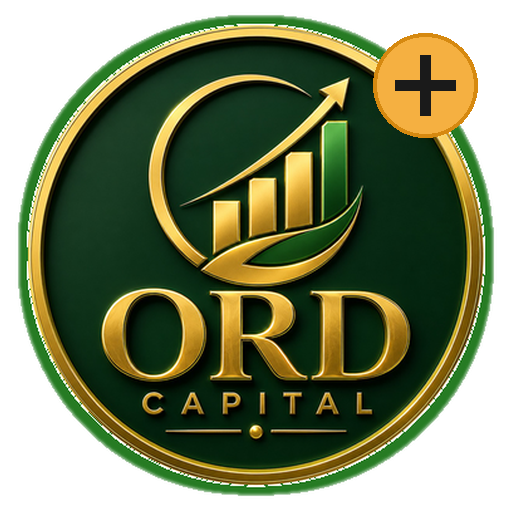
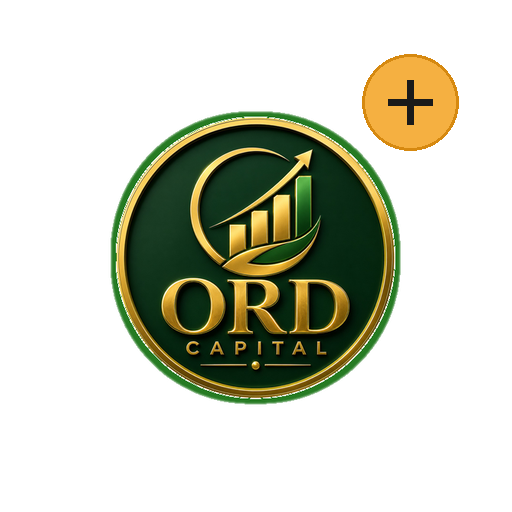
subida a produccion last

diff --git a/src/pages/Auth/Auth.css b/src/pages/Auth/Auth.css
@@ -117,14 +117,37 @@
   align-items: center;
   justify-content: center;
   margin-bottom: var(--space-5);
+  position: relative;
+}
+
+.welcome-logo-container::before {
+  content: '';
+  position: absolute;
+  width: 175px;
+  height: 175px;
+  border-radius: 50%;
+  background: radial-gradient(circle, rgba(38, 123, 35, 0.65) 0%, rgba(11, 56, 14, 0.45) 40%, rgba(11, 56, 14, 0.15) 68%, transparent 82%);
+  filter: blur(10px);
+  pointer-events: none;
+  animation: logoGlow 4s ease-in-out infinite;
 }
 
 .welcome-logo-img {
-  width: 150px;
-  height: 150px;
-  object-fit: contain;
-  filter: drop-shadow(0 10px 28px rgba(0, 177, 39, 0.4));
+  width: 145px;
+  height: 145px;
+  object-fit: cover;
+  border-radius: 50%;
+  mask-image: radial-gradient(circle, #000 62%, rgba(0,0,0,0.85) 75%, rgba(0,0,0,0.4) 88%, transparent 100%);
+  -webkit-mask-image: radial-gradient(circle, #000 62%, rgba(0,0,0,0.85) 75%, rgba(0,0,0,0.4) 88%, transparent 100%);
+  box-shadow: 0 0 30px rgba(38, 123, 35, 0.4);
   animation: logoFloat 4s ease-in-out infinite;
+  position: relative;
+  z-index: 1;
+}
+
+@keyframes logoGlow {
+  0%, 100% { transform: scale(1); opacity: 0.85; }
+  50% { transform: scale(1.08); opacity: 1; }
 }
 
 @keyframes logoFloat {

diff --git a/src/styles/index.css b/src/styles/index.css
@@ -17,6 +17,7 @@
 
   /* ─── Acentos Basados en el Logo (Verde Esmeralda #00B127 a Verde Bosque #116014) ─── */
   --mint:                 #00B127;
+  --accent-mint:          #4ECDC4; /* Mint-cyan for high-contrast navigation items, same as global accent */
   --mint-gradient:        linear-gradient(135deg, #00B127 0%, #116014 100%);
   --mint-gradient-hover:  linear-gradient(135deg, #00C82B 0%, #147018 100%);
   --mint-gradient-subtle: linear-gradient(135deg, rgba(0, 177, 39, 0.18) 0%, rgba(17, 96, 20, 0.08) 100%);
@@ -480,14 +481,14 @@ input::placeholder, textarea::placeholder {
   gap: 3px;
   padding: var(--space-2) var(--space-4);
   border-radius: var(--radius-md);
-  color: var(--text-4);
+  color: var(--accent-mint); /* Mint-cyan for high contrast against dark nav background */
   transition: color var(--transition-fast);
   font-size: 10px;
   font-weight: 500;
   min-width: 56px;
 }
 .nav-item.active {
-  color: var(--mint);
+  color: var(--mint); /* Keep active state using primary mint accent */
 }
 .nav-item svg {
   width: 22px;

diff --git a/public/sw.js b/public/sw.js
@@ -2,7 +2,7 @@
 // Plantilla del Service Worker. El script scripts/build-sw.js genera
 // public/sw.js. No editar public/sw.js a mano: se sobreescribe.
 
-const CACHE_NAME = 'ord-capital-1d1dab5-1786056268205';
+const CACHE_NAME = 'ord-capital-eaca385-1786578584871';
 const ASSETS_TO_CACHE = [
   '/',
   '/index.html',

diff --git a/scripts/generate_90_icons.py b/scripts/generate_90_icons.py
@@ -1,0 +1,128 @@
+import os
+from PIL import Image, ImageDraw, ImageFilter
+import numpy as np
+from collections import deque
+
+def generate_icons_90():
+    # Source emblem from docs/icons/android-icon-512x512.png
+    src_path = 'docs/icons/android-icon-512x512.png'
+    if not os.path.exists(src_path):
+        raise FileNotFoundError(f"Source file not found: {src_path}")
+    
+    src = Image.open(src_path).convert('RGB')
+    arr = np.array(src, dtype=np.float32)
+    h, w, _ = arr.shape
+
+    # Flood-fill background mask from corners
+    dist = np.sqrt(np.sum((arr - [255.0, 255.0, 255.0])**2, axis=2))
+    bg_mask = np.zeros((h, w), dtype=bool)
+    queue = deque([(0,0), (0, w-1), (h-1, 0), (h-1, w-1)])
+    for r, c in queue:
+        bg_mask[r, c] = True
+
+    while queue:
+        r, c = queue.popleft()
+        for dr, dc in [(-1,0), (1,0), (0,-1), (0,1)]:
+            nr, nc = r + dr, c + dc
+            if 0 <= nr < h and 0 <= nc < w and not bg_mask[nr, nc]:
+                if dist[nr, nc] < 35.0:
+                    bg_mask[nr, nc] = True
+                    queue.append((nr, nc))
+
+    emblem_mask = ~bg_mask
+
+    alpha = np.zeros((h, w), dtype=np.float32)
+    alpha[emblem_mask] = 255.0
+
+    for r in range(1, h-1):
+        for c in range(1, w-1):
+            if bg_mask[r, c]:
+                nbrs = emblem_mask[r-1:r+2, c-1:c+2]
+                if np.any(nbrs):
+                    d = dist[r, c]
+                    a = max(0.0, min(255.0, (35.0 - d) / 35.0 * 255.0))
+                    alpha[r, c] = a
+
+    # Add green rim (#267B23)
+    emblem_img = Image.fromarray((emblem_mask * 255).astype(np.uint8))
+    dilated_img = emblem_img.filter(ImageFilter.MaxFilter(17)) # ~8px rim
+    dilated_mask = np.array(dilated_img) > 128
+
+    green_color = np.array([38, 123, 35], dtype=np.float32)
+
+    logo_rgba = np.zeros((h, w, 4), dtype=np.uint8)
+    logo_rgba[:, :, :3] = arr.astype(np.uint8)
+    logo_rgba[:, :, 3] = alpha.astype(np.uint8)
+
+    green_ring_mask = dilated_mask & (logo_rgba[:, :, 3] < 200)
+    for i in range(3):
+        logo_rgba[:, :, i] = np.where(green_ring_mask, green_color[i], logo_rgba[:, :, i])
+
+    dilated_alpha = Image.fromarray((dilated_mask * 255).astype(np.uint8)).filter(ImageFilter.GaussianBlur(1.5))
+    dilated_alpha_arr = np.array(dilated_alpha)
+    logo_rgba[:, :, 3] = np.maximum(logo_rgba[:, :, 3], dilated_alpha_arr)
+
+    emblem_with_rim = Image.fromarray(logo_rgba, 'RGBA')
+
+    os.makedirs('scratch', exist_ok=True)
+    os.makedirs('public', exist_ok=True)
+
+    # 1. GREEN BG ICON (5% smaller scale -> emblem 408x408 in 512x512 canvas)
+    # Background #0B380E (11, 56, 14)
+    green_bg = Image.new('RGBA', (512, 512), (11, 56, 14, 255))
+    scaled_emblem_green = emblem_with_rim.resize((408, 408), Image.Resampling.LANCZOS)
+    # Centered at (52, 52)
+    green_bg.paste(scaled_emblem_green, (52, 52), scaled_emblem_green)
+
+    # Save preview in scratch
+    green_bg.save('scratch/preview_logo_green_90.png', 'PNG')
+    green_bg.save('scratch/preview_logo_green_95.png', 'PNG')
+    print('Generated scratch/preview_logo_green_90.png')
+
+    # Save to public PWA icon files
+    green_bg.save('public/icon-512.png', 'PNG')
+    green_bg.save('public/icono_logo.png', 'PNG')
+
+    green_1024 = green_bg.resize((1024, 1024), Image.Resampling.LANCZOS)
+    green_1024.save('public/logo.png', 'PNG')
+
+    green_192 = green_bg.resize((192, 192), Image.Resampling.LANCZOS)
+    green_192.save('public/icon-192.png', 'PNG')
+    green_192.save('public/favicon.png', 'PNG')
+
+    apple_180 = green_bg.resize((180, 180), Image.Resampling.LANCZOS)
+    apple_180.save('public/apple-touch-icon.png', 'PNG')
+
+    print('Updated all green PWA icons in public/ (-5% scale)')
+
+    # 2. WHITE BG SHORTCUT ICON (5% smaller scale -> emblem 380x380 in 512x512 canvas)
+    white_bg = Image.new('RGBA', (512, 512), (255, 255, 255, 255))
+    scaled_emblem_white = emblem_with_rim.resize((380, 380), Image.Resampling.LANCZOS)
+    # Centered at (66, 66)
+    white_bg.paste(scaled_emblem_white, (66, 66), scaled_emblem_white)
+
+    # Draw vibrant yellow '+' badge in top-right corner
+    draw = ImageDraw.Draw(white_bg)
+    cx, cy, r = 410, 102, 48
+    draw.ellipse([cx - r, cy - r, cx + r, cy + r], fill='#F5B041', outline='#D68910', width=3)
+    
+    plus_len = 22
+    plus_thick = 7
+    draw.rectangle([cx - plus_thick//2, cy - plus_len, cx + plus_thick//2, cy + plus_len], fill='#1A1A1A')
+    draw.rectangle([cx - plus_len, cy - plus_thick//2, cx + plus_len, cy + plus_thick//2], fill='#1A1A1A')
+
+    # Save preview in scratch
+    white_bg.save('scratch/preview_logo_white_90.png', 'PNG')
+    white_bg.save('scratch/preview_logo_white_95.png', 'PNG')
+    print('Generated scratch/preview_logo_white_90.png')
+
+    # Save to public shortcut icon files
+    white_bg.save('public/icon-shortcut-add.png', 'PNG')
+
+    white_192 = white_bg.resize((192, 192), Image.Resampling.LANCZOS)
+    white_192.save('public/icon-shortcut-add-192.png', 'PNG')
+
+    print('Updated all white shortcut PWA icons in public/ (-5% scale)')
+
+if __name__ == '__main__':
+    generate_icons_90()

diff --git a/scripts/generate_exact_90.py b/scripts/generate_exact_90.py
@@ -1,0 +1,125 @@
+import os
+from PIL import Image, ImageDraw, ImageFilter
+import numpy as np
+from collections import deque
+
+def generate_icons_exact_90():
+    src_path = 'docs/icons/android-icon-512x512.png'
+    if not os.path.exists(src_path):
+        raise FileNotFoundError(f"Source file not found: {src_path}")
+    
+    src = Image.open(src_path).convert('RGB')
+    arr = np.array(src, dtype=np.float32)
+    h, w, _ = arr.shape
+
+    # Flood-fill background mask from corners
+    dist = np.sqrt(np.sum((arr - [255.0, 255.0, 255.0])**2, axis=2))
+    bg_mask = np.zeros((h, w), dtype=bool)
+    queue = deque([(0,0), (0, w-1), (h-1, 0), (h-1, w-1)])
+    for r, c in queue:
+        bg_mask[r, c] = True
+
+    while queue:
+        r, c = queue.popleft()
+        for dr, dc in [(-1,0), (1,0), (0,-1), (0,1)]:
+            nr, nc = r + dr, c + dc
+            if 0 <= nr < h and 0 <= nc < w and not bg_mask[nr, nc]:
+                if dist[nr, nc] < 35.0:
+                    bg_mask[nr, nc] = True
+                    queue.append((nr, nc))
+
+    emblem_mask = ~bg_mask
+
+    alpha = np.zeros((h, w), dtype=np.float32)
+    alpha[emblem_mask] = 255.0
+
+    for r in range(1, h-1):
+        for c in range(1, w-1):
+            if bg_mask[r, c]:
+                nbrs = emblem_mask[r-1:r+2, c-1:c+2]
+                if np.any(nbrs):
+                    d = dist[r, c]
+                    a = max(0.0, min(255.0, (35.0 - d) / 35.0 * 255.0))
+                    alpha[r, c] = a
+
+    # Add green rim (#267B23)
+    emblem_img = Image.fromarray((emblem_mask * 255).astype(np.uint8))
+    dilated_img = emblem_img.filter(ImageFilter.MaxFilter(17)) # ~8px rim
+    dilated_mask = np.array(dilated_img) > 128
+
+    green_color = np.array([38, 123, 35], dtype=np.float32)
+
+    logo_rgba = np.zeros((h, w, 4), dtype=np.uint8)
+    logo_rgba[:, :, :3] = arr.astype(np.uint8)
+    logo_rgba[:, :, 3] = alpha.astype(np.uint8)
+
+    green_ring_mask = dilated_mask & (logo_rgba[:, :, 3] < 200)
+    for i in range(3):
+        logo_rgba[:, :, i] = np.where(green_ring_mask, green_color[i], logo_rgba[:, :, i])
+
+    dilated_alpha = Image.fromarray((dilated_mask * 255).astype(np.uint8)).filter(ImageFilter.GaussianBlur(1.5))
+    dilated_alpha_arr = np.array(dilated_alpha)
+    logo_rgba[:, :, 3] = np.maximum(logo_rgba[:, :, 3], dilated_alpha_arr)
+
+    emblem_with_rim = Image.fromarray(logo_rgba, 'RGBA')
+
+    os.makedirs('scratch', exist_ok=True)
+    os.makedirs('public', exist_ok=True)
+
+    # EXACT 90% SCALE: 418x418 px emblem in 512x512 canvas
+    # 1. GREEN BG ICON
+    green_bg = Image.new('RGBA', (512, 512), (11, 56, 14, 255))
+    scaled_emblem_green = emblem_with_rim.resize((418, 418), Image.Resampling.LANCZOS)
+    # Centered at (47, 47)
+    green_bg.paste(scaled_emblem_green, (47, 47), scaled_emblem_green)
+
+    # Save to scratch preview
+    green_bg.save('scratch/preview_logo_green_90.png', 'PNG')
+    green_bg.save('scratch/preview_logo_green_95.png', 'PNG')
+
+    # Save to public PWA icon files
+    green_bg.save('public/icon-512.png', 'PNG')
+    green_bg.save('public/icono_logo.png', 'PNG')
+
+    green_1024 = green_bg.resize((1024, 1024), Image.Resampling.LANCZOS)
+    green_1024.save('public/logo.png', 'PNG')
+
+    green_192 = green_bg.resize((192, 192), Image.Resampling.LANCZOS)
+    green_192.save('public/icon-192.png', 'PNG')
+    green_192.save('public/favicon.png', 'PNG')
+
+    apple_180 = green_bg.resize((180, 180), Image.Resampling.LANCZOS)
+    apple_180.save('public/apple-touch-icon.png', 'PNG')
+
+    print('Generated exact 90% green PWA icons')
+
+    # 2. WHITE BG SHORTCUT ICON (392x392 emblem in 512x512 canvas)
+    white_bg = Image.new('RGBA', (512, 512), (255, 255, 255, 255))
+    scaled_emblem_white = emblem_with_rim.resize((392, 392), Image.Resampling.LANCZOS)
+    # Centered at (60, 60)
+    white_bg.paste(scaled_emblem_white, (60, 60), scaled_emblem_white)
+
+    # Draw vibrant yellow '+' badge in top-right corner
+    draw = ImageDraw.Draw(white_bg)
+    cx, cy, r = 410, 102, 48
+    draw.ellipse([cx - r, cy - r, cx + r, cy + r], fill='#F5B041', outline='#D68910', width=3)
+    
+    plus_len = 22
+    plus_thick = 7
+    draw.rectangle([cx - plus_thick//2, cy - plus_len, cx + plus_thick//2, cy + plus_len], fill='#1A1A1A')
+    draw.rectangle([cx - plus_len, cy - plus_thick//2, cx + plus_len, cy + plus_thick//2], fill='#1A1A1A')
+
+    # Save to scratch preview
+    white_bg.save('scratch/preview_logo_white_90.png', 'PNG')
+    white_bg.save('scratch/preview_logo_white_95.png', 'PNG')
+
+    # Save to public shortcut icon files
+    white_bg.save('public/icon-shortcut-add.png', 'PNG')
+
+    white_192 = white_bg.resize((192, 192), Image.Resampling.LANCZOS)
+    white_192.save('public/icon-shortcut-add-192.png', 'PNG')
+
+    print('Generated exact 90% white shortcut PWA icons')
+
+if __name__ == '__main__':
+    generate_icons_exact_90()
